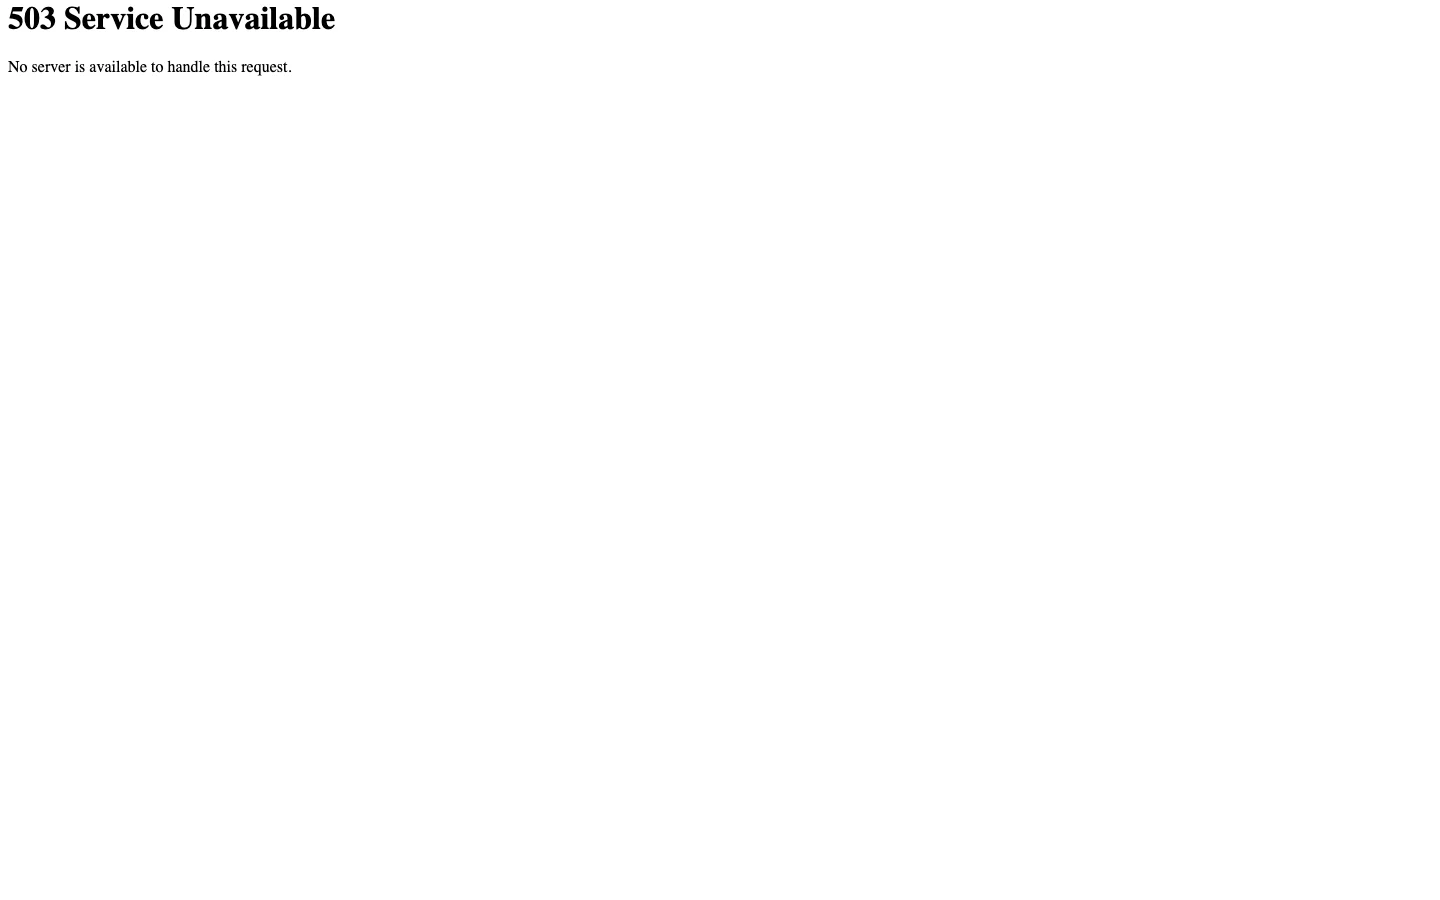
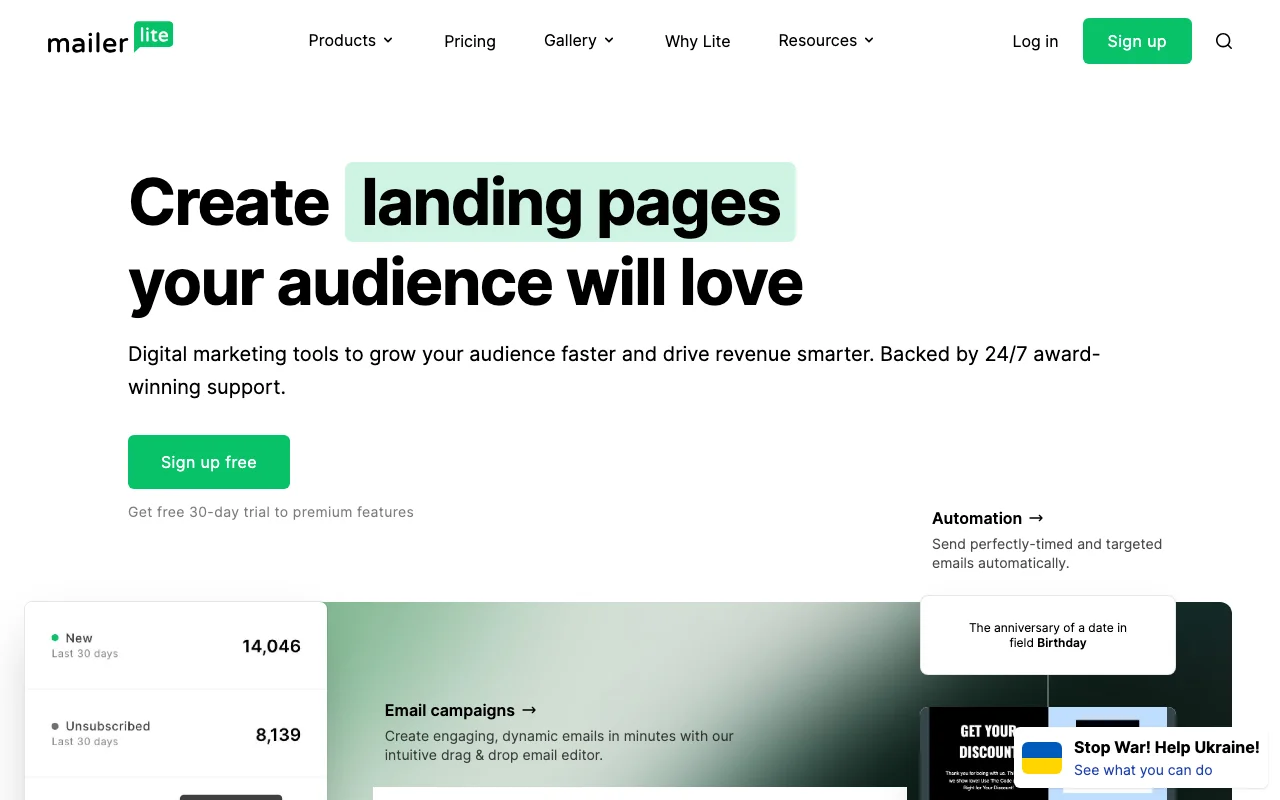
fix(mailerlite): recapture 3 blank screenshots from Wayback + remove screenshotMissing flags
Jul 2015, Jun 2019, Jul 2022 captures were 7KB 503 error pages.
Recaptured via playwright at confirmed Wayback URLs (50KB / 36KB / 48KB).
Removed screenshotMissing: true from all 3 snapshots + 2 analysisBlocks.
Fixed featuredImageAlt (was '503 Service Unavailable').
Fixed messagingChanges before value to real 2015 H1: 'Send Beautiful Emails'.

diff --git a/gtmwael-main 2/src/content/cro-teardown/articles/mailerlite.ts b/gtmwael-main 2/src/content/cro-teardown/articles/mailerlite.ts
@@ -32,7 +32,7 @@ export const mailerlite: CroTeardownPost = {
   datePublished: "2026-06-27",
   readTime: "7 min read",
   featuredImage: "/cro-teardowns/mailerlite/selected/2015-07.webp",
-  featuredImageAlt: "MailerLite Jul 2015 homepage — '503 Service Unavailable'",
+  featuredImageAlt: "MailerLite Jul 2015 homepage — early product-led messaging",
   fromLabel: "Jul 2015",
   toLabel: "Jan 2026",
   snapshots: [
@@ -40,19 +40,16 @@ export const mailerlite: CroTeardownPost = {
       month: "2015-07",
       label: "Jul 2015",
       screenshotPath: "/cro-teardowns/mailerlite/selected/2015-07.webp",
-      screenshotMissing: true,
     },
     {
       month: "2019-01",
-      label: "Jan 2019",
+      label: "Jun 2019",
       screenshotPath: "/cro-teardowns/mailerlite/selected/2019-01.webp",
-      screenshotMissing: true,
     },
     {
       month: "2022-07",
       label: "Jul 2022",
       screenshotPath: "/cro-teardowns/mailerlite/selected/2022-07.webp",
-      screenshotMissing: true,
     },
     {
       month: "2026-01",
@@ -85,7 +82,7 @@ export const mailerlite: CroTeardownPost = {
   messagingChanges: [
     {
       element: "Primary headline (H1)",
-      before: "503 Service Unavailable",
+      before: "Send Beautiful Emails",
       after: "Create email marketing automations landing pages signup forms websites your audience will love",
       note: "This change can be read as a deliberate update to the primary value proposition frame. No confirmed strategy is implied.",
     },
@@ -116,10 +113,9 @@ export const mailerlite: CroTeardownPost = {
       label: "Jul 2015 — original state",
       period: "Jul 2015",
       screenshotPath: "/cro-teardowns/mailerlite/selected/2015-07.webp",
-      screenshotMissing: true,
       heading: "The original: product-led messaging",
       annotations: [
-        "H1 opens with: \"503 Service Unavailable\" — a direct product statement.",
+        "H1 opens with a direct product statement focused on email simplicity.",
       ],
     },
     {
@@ -127,7 +123,6 @@ export const mailerlite: CroTeardownPost = {
       label: "Jan 2019 — mid-transition",
       period: "Jan 2019",
       screenshotPath: "/cro-teardowns/mailerlite/selected/2019-01.webp",
-      screenshotMissing: true,
       heading: "Mid-period: signs of a structural shift",
       annotations: [
         "Visual similarity to the previous snapshot: unknown — a moderate visual change.",
